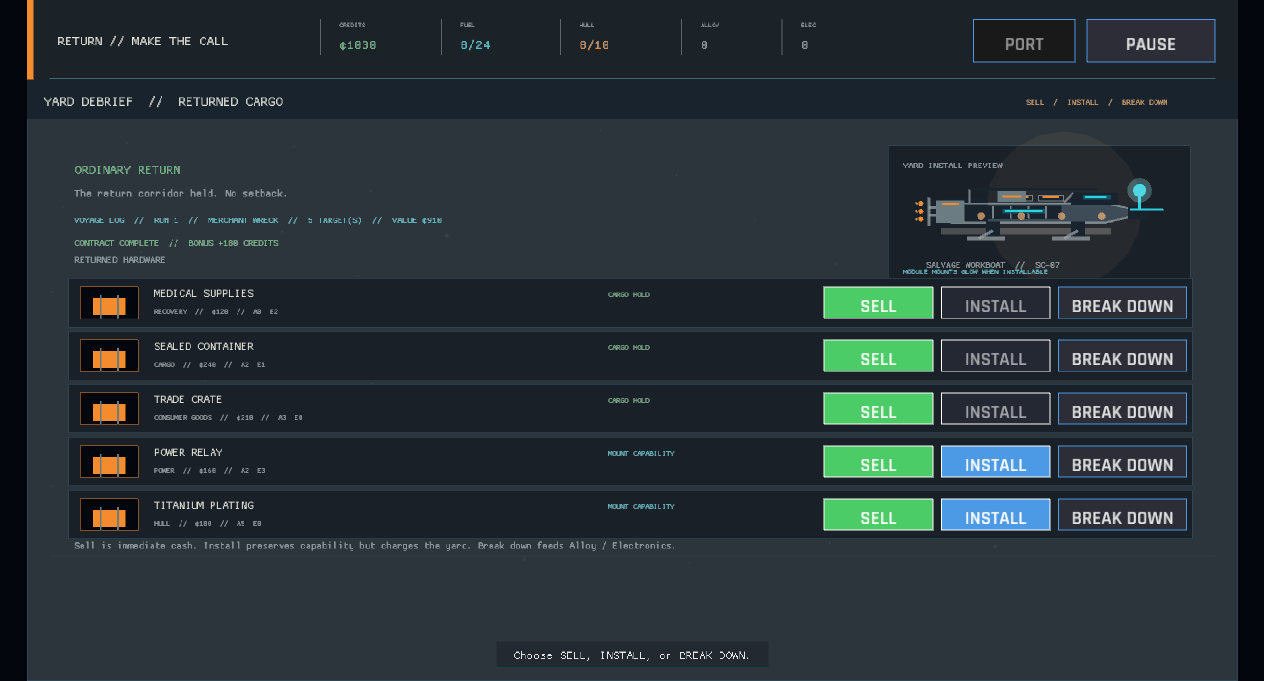
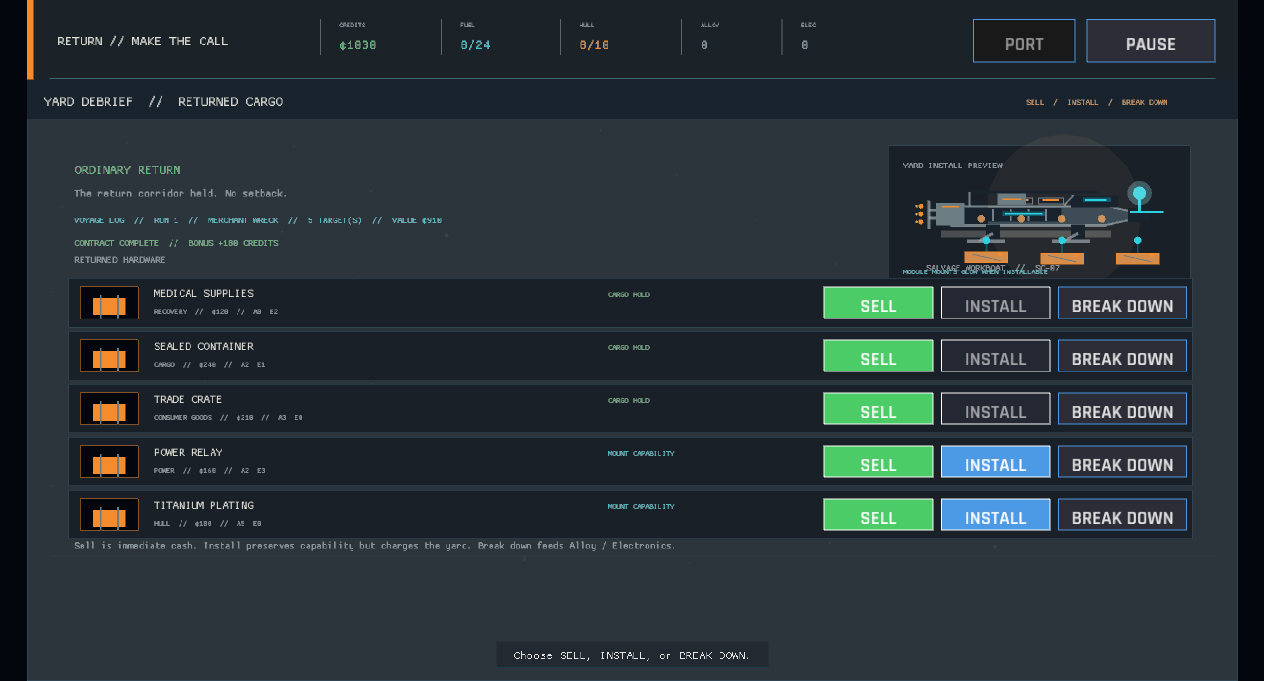
The clamps carry recovered machinery into the yard light (external cargo presentation, GDD 6.7 and Phase 5)
The vessel silhouette now renders non-internal packed or returned cargo beneath its hull, with transfer lines, clamp points, and silhouette-based accents. It prefers the active expedition load when one exists and caps visible slots so the compact ship preview stays readable. The refreshed yard debrief capture verifies that externally secured hardware is visible after return.

Changed region(s): [[0.7097, 0.2467, 0.9256, 0.4009]]

diff --git a/src/ui/ship_visual.rs b/src/ui/ship_visual.rs
@@ -2,7 +2,7 @@
 
 use super::visual_theme;
 use crate::data::{GameData, ModuleData};
-use crate::state::GameSession;
+use crate::state::{CargoStatus, GameSession};
 use macroquad::prelude::*;
 use macroquad_toolkit::math::{bob, pulse_range};
 
@@ -345,6 +345,7 @@ pub fn draw_ship_with_selection(
     }
 
     draw_module_mounts(hull, session, data, elapsed, selected_module);
+    draw_external_cargo(hull, session, data, elapsed);
     if selected {
         draw_rectangle_lines(
             hull.x - 5.0,
@@ -362,6 +363,108 @@ pub fn draw_ship_with_selection(
         12.0,
         visual_theme::text_dim(),
     );
+}
+
+fn draw_external_cargo(hull: Rect, session: &GameSession, data: &GameData, elapsed: f32) {
+    let packed_ids: Vec<String> = session
+        .expedition
+        .as_ref()
+        .map(|expedition| {
+            expedition
+                .cargo
+                .iter()
+                .filter(|cargo| cargo.status == CargoStatus::Packed)
+                .filter_map(|cargo| {
+                    data.salvage_objects
+                        .get(&cargo.object_id)
+                        .filter(|object| object.transfer_mode != "internal_cargo")
+                        .map(|_| cargo.object_id.clone())
+                })
+                .collect()
+        })
+        .unwrap_or_default();
+    let returned_ids: Vec<String> = if packed_ids.is_empty() {
+        session
+            .returned
+            .iter()
+            .filter_map(|cargo| {
+                data.salvage_objects
+                    .get(&cargo.object_id)
+                    .filter(|object| object.transfer_mode != "internal_cargo")
+                    .map(|_| cargo.object_id.clone())
+            })
+            .collect()
+    } else {
+        Vec::new()
+    };
+    let cargo_ids = if packed_ids.is_empty() {
+        returned_ids
+    } else {
+        packed_ids
+    };
+    let visible_count = cargo_ids.len().min(5);
+    let slot_spacing = if visible_count > 1 {
+        0.64 / (visible_count - 1) as f32
+    } else {
+        0.0
+    };
+    for (index, object_id) in cargo_ids.iter().take(visible_count).enumerate() {
+        let Some(object) = data.salvage_objects.get(object_id) else {
+            continue;
+        };
+        let slot = index as f32;
+        let slot_x = hull.x + hull.w * (0.18 + slot * slot_spacing);
+        let slot_y = hull.bottom() + 10.0 + (elapsed * 1.3 + slot).sin() * 1.5;
+        let slot_w = (hull.w * (0.62 / visible_count.max(1) as f32)).clamp(22.0, 46.0);
+        let slot_h = (hull.h * 0.18).clamp(12.0, 24.0);
+        let accent = cargo_accent(&object.visual_silhouette);
+        draw_line(
+            slot_x + slot_w * 0.5,
+            hull.bottom() - 2.0,
+            slot_x + slot_w * 0.5,
+            slot_y,
+            2.0,
+            visual_theme::cyan_dim(),
+        );
+        draw_circle(
+            slot_x + slot_w * 0.5,
+            hull.bottom() - 2.0,
+            4.0,
+            visual_theme::cyan(),
+        );
+        draw_rectangle(
+            slot_x,
+            slot_y,
+            slot_w,
+            slot_h,
+            visual_theme::with_alpha(accent, 0.82),
+        );
+        draw_rectangle_lines(slot_x, slot_y, slot_w, slot_h, 2.0, accent);
+        draw_line(
+            slot_x + slot_w * 0.18,
+            slot_y + slot_h * 0.22,
+            slot_x + slot_w * 0.82,
+            slot_y + slot_h * 0.78,
+            1.0,
+            visual_theme::structure_light(),
+        );
+        draw_circle(
+            slot_x + slot_w * 0.82,
+            slot_y + slot_h * 0.2,
+            2.5,
+            visual_theme::amber(),
+        );
+    }
+}
+
+fn cargo_accent(silhouette: &str) -> Color {
+    if silhouette.contains("computer") || silhouette.contains("sensor") {
+        visual_theme::cyan()
+    } else if silhouette.contains("reactor") || silhouette.contains("engine") {
+        visual_theme::warning()
+    } else {
+        visual_theme::amber()
+    }
 }
 
 pub fn module_mount_rect(rect: Rect, module: &ModuleData) -> Rect {
